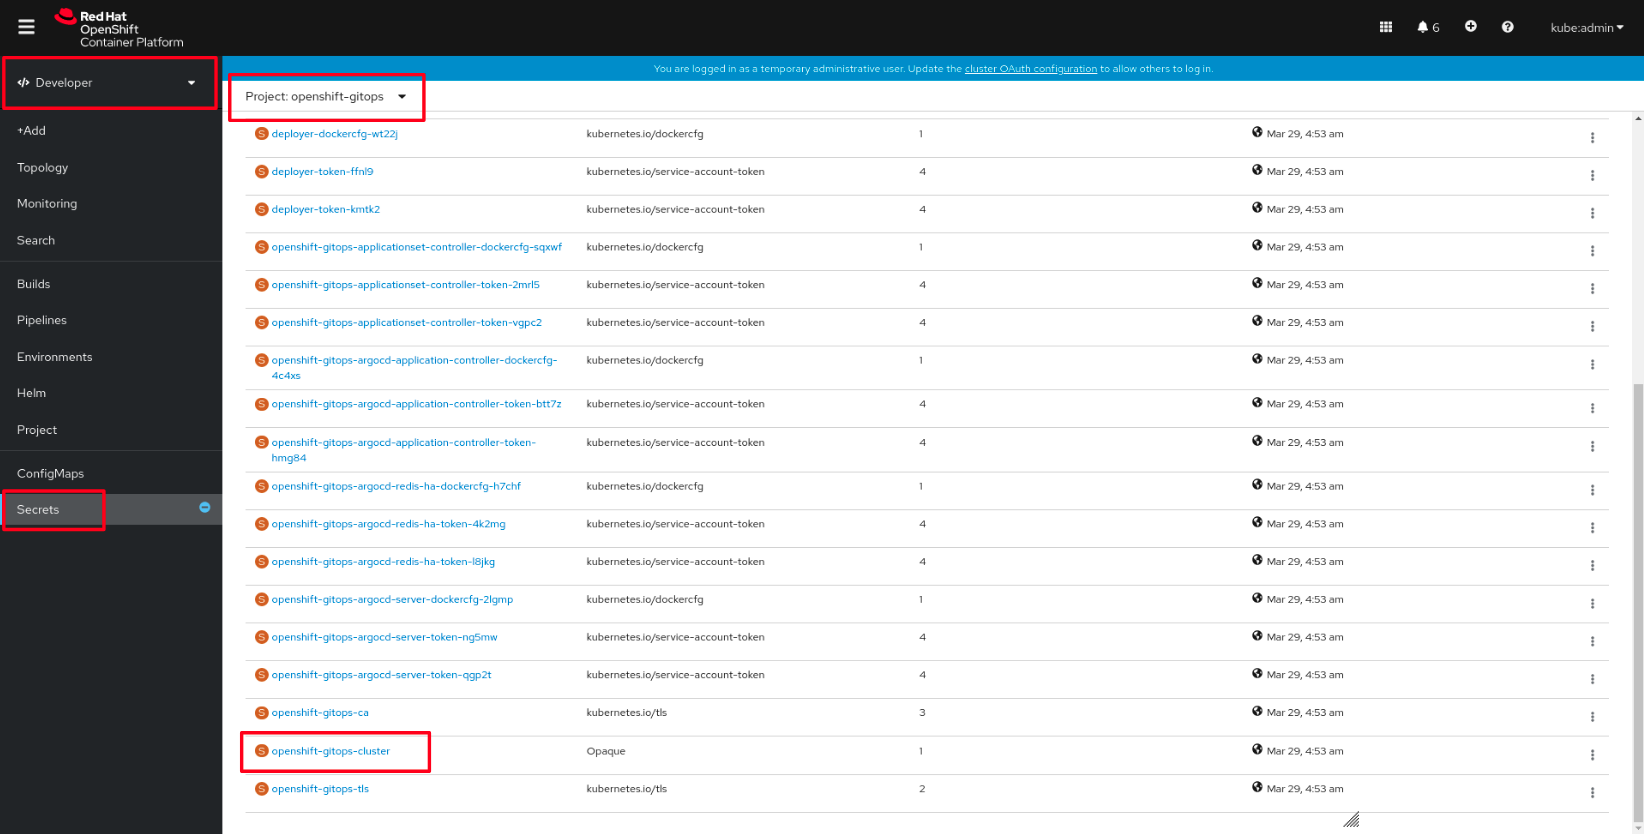
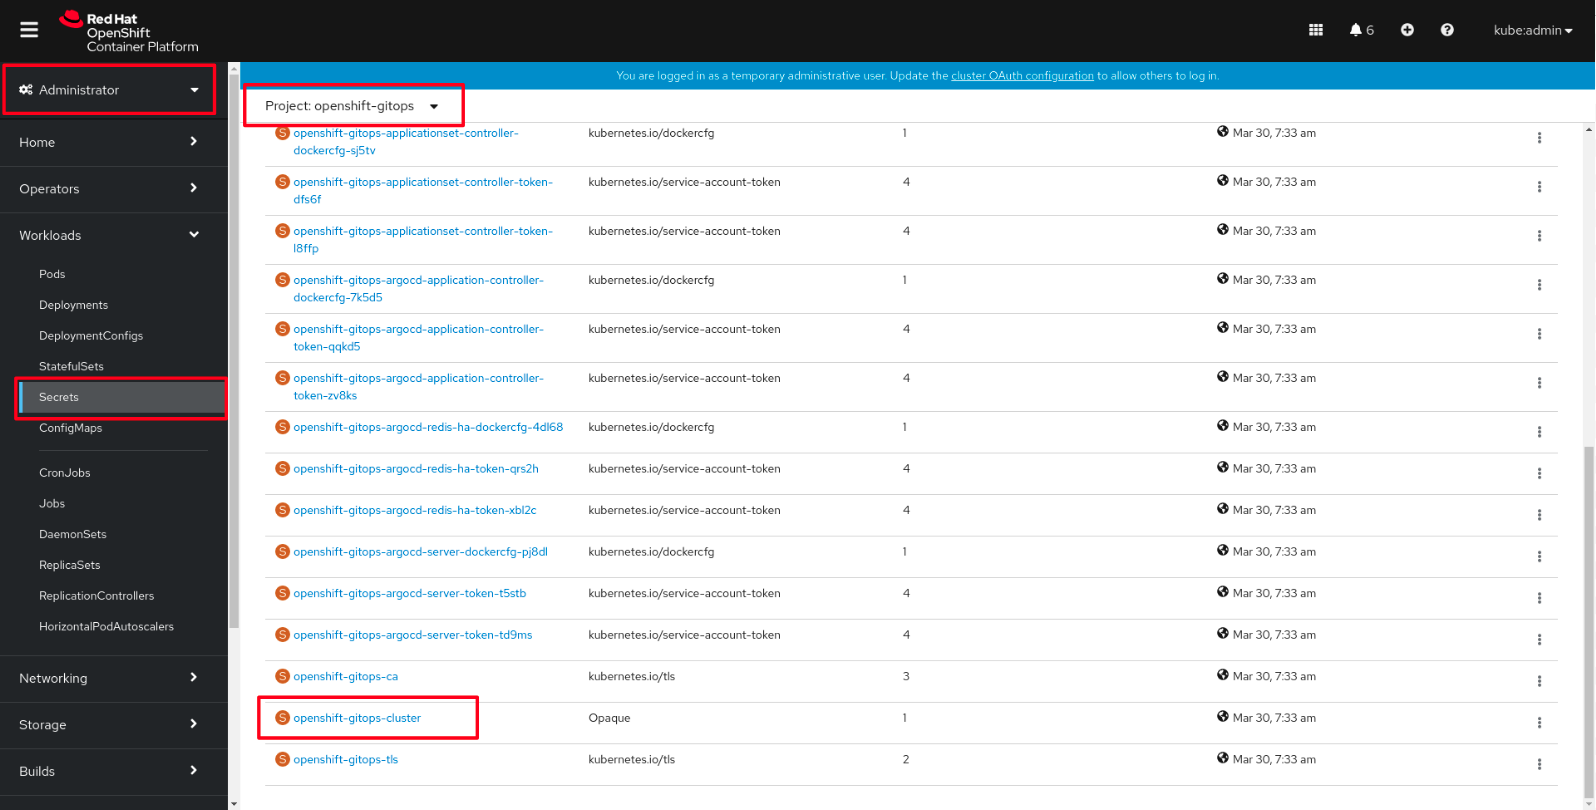
update argocd login flow in docs (#216)

diff --git a/docs/journey/day1/README.md b/docs/journey/day1/README.md
@@ -290,7 +290,7 @@ On installation of OpenShift GitOps, the operator sets up a ready-to-use Argo CD
 
 ![ArgoCD_Link](img/ArgoCD_Link.png)
 
-For the pre-created Argo CD instance under `openshift-gitops` project, you’ll find the password by switching to the Developer perspective, navigating to the `openshift-gitops` project, and looking under the "Secrets" tab to find the secret for `openshift-gitops-cluster`. Once you copy that secret to your clipboard, you can paste it into the Argo CD login page for password and use `admin` as the username. 
+For the pre-created Argo CD instance under `openshift-gitops` project, you’ll find the password to log into the Argo CD UI under the Workloads > Secrets tab and selecting `openshift-gitops-cluster`. Once on that page, you can copy the secret at the bottom of the page to your clipboard and paste it into the Argo CD login page to use as the password. Use `admin` as the username. 
 
 ![ArgoCD_ConsoleSecrets](img/ArgoCD_ConsoleSecrets.png)
 
